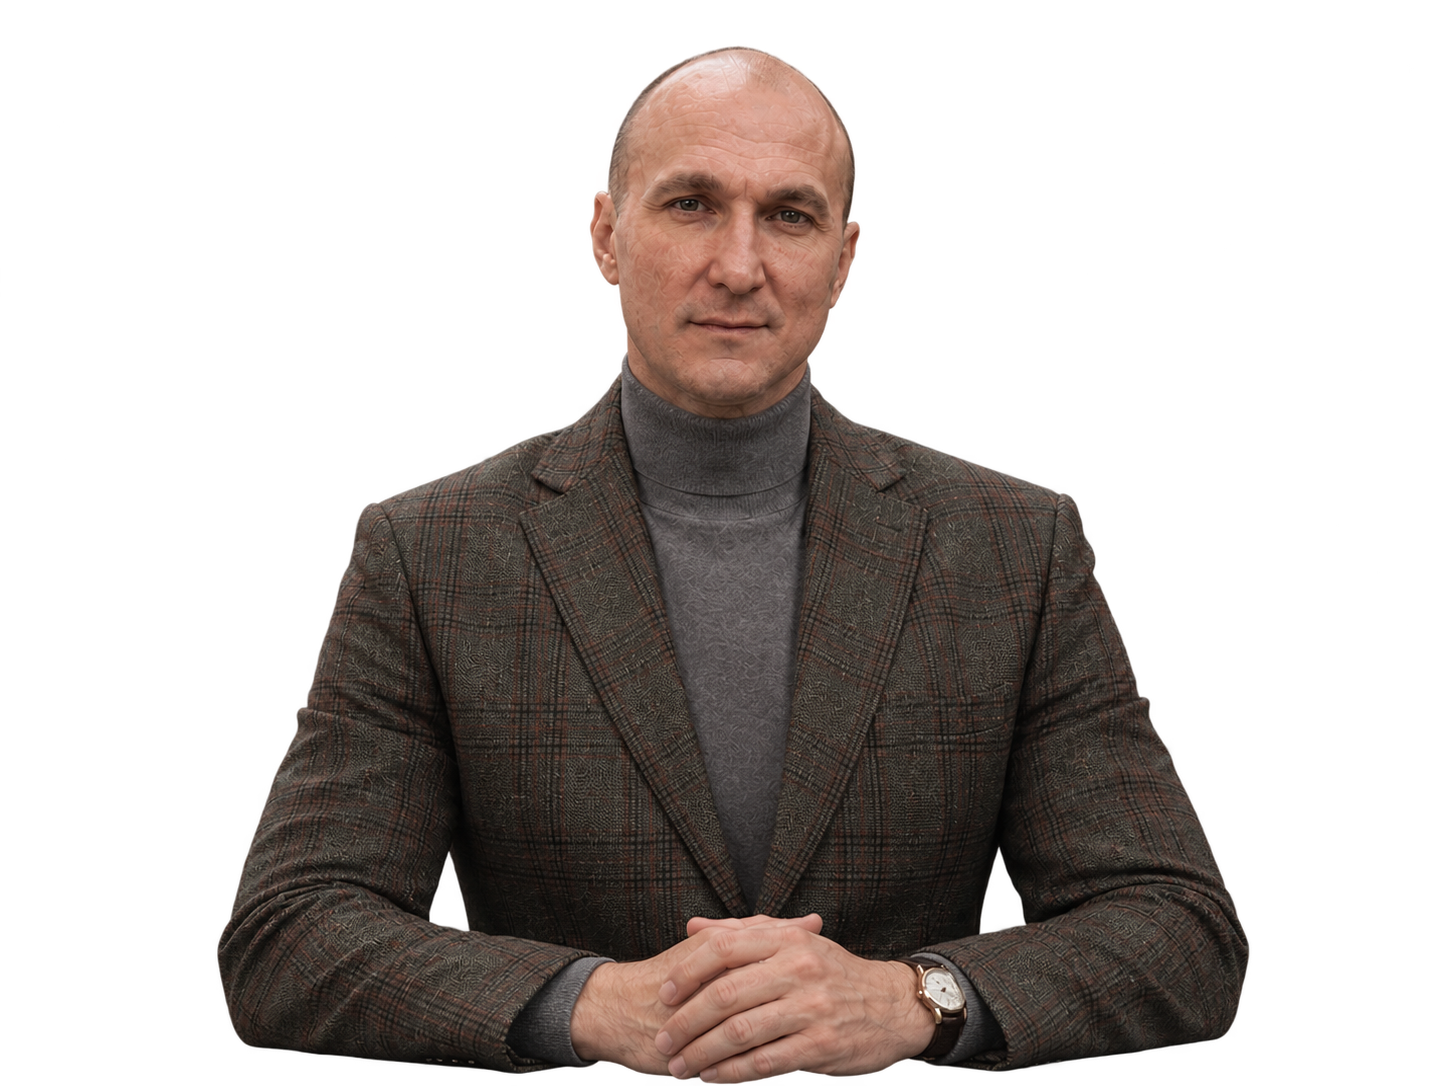
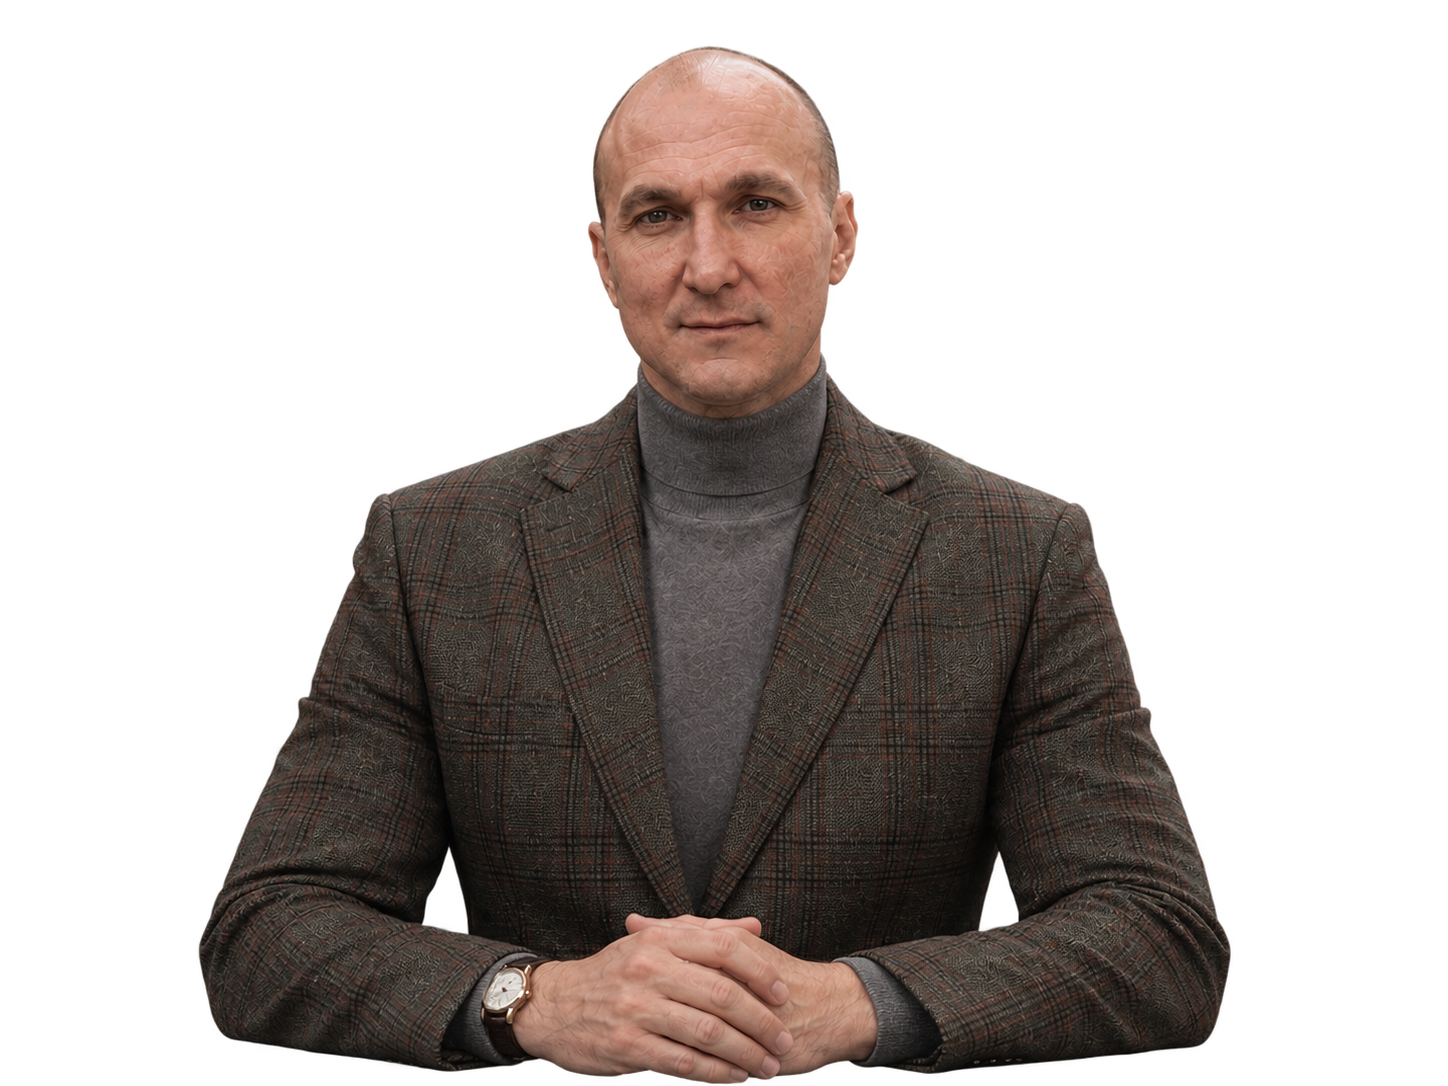
Новое фото на первом экране
Портрет заменён присланным 15 октября файлом, пиксели без изменений
(пережат без потерь, 1,46 -> 1,40 МБ). Обновлены комментарии в ak.css:
дата файла и границы фигуры в квадратной обрезке на телефоне.

Claude-Session: https://claude.ai/code/session_01MxCsxn4YPhuHkm8JtVrVKu

Changed region(s): [[0.1243, 0.0304, 0.8702, 1.0]]

diff --git a/ak.css b/ak.css
@@ -178,7 +178,7 @@ b,strong{font-weight:600;color:var(--ink)}
 .hero .rubric{color:var(--on2);margin-bottom:26px}
 
 /* Портрет - andrey-portrait.png, фигура вырезана на прозрачном фоне
-   (кадр 1448x1086, стола в нём нет). Файл прислан им 9 октября и стоит
+   (кадр 1448x1086, стола в нём нет). Файл прислан им 15 октября и стоит
    как есть: без наложения, без масок и без правки цвета. Прозрачный фон
    ложится на любой цвет, первый экран чёрный.
    История: прежний кадр был снят на чёрном со столом через весь кадр,
@@ -187,7 +187,8 @@ b,strong{font-weight:600;color:var(--ink)}
    Сжатие: пробовали WebP и JPEG высокого качества - он оба раза видел
    сжатие, "поставь оригинал, ты сильно ужал". PNG только пережат без
    потерь (oxipng): пиксели совпадают с присланным один в один,
-   1,76 -> 1,32 МБ. Сжимать с потерями нельзя. */
+   1,76 -> 1,32 МБ. Сжимать с потерями нельзя. Файл от 15 октября: 1,46 -> 1,40 МБ,
+   тоже без потерь (пережат средствами PIL, пиксели совпадают с присланным). */
 .hero-shot{margin:0;pointer-events:none}
 .hero-shot img{display:block;width:100%;height:auto}
 
@@ -284,7 +285,7 @@ a.fact:hover .fact-l{color:var(--on)}
         width:min(68%,36vh);width:min(68%,36svh);height:auto;aspect-ratio:1/1;margin-inline:auto;
         object-fit:cover;object-position:50% 50%;
         /* Квадрат берёт из кадра полосу от 12,5% до 87,5% ширины, фигура
-           (от 16% до 86%) входит в неё целиком. */
+           (от 14% до 85%) входит в неё целиком. */
     }
     .hero > .wrap{padding-top:22px}
 }
